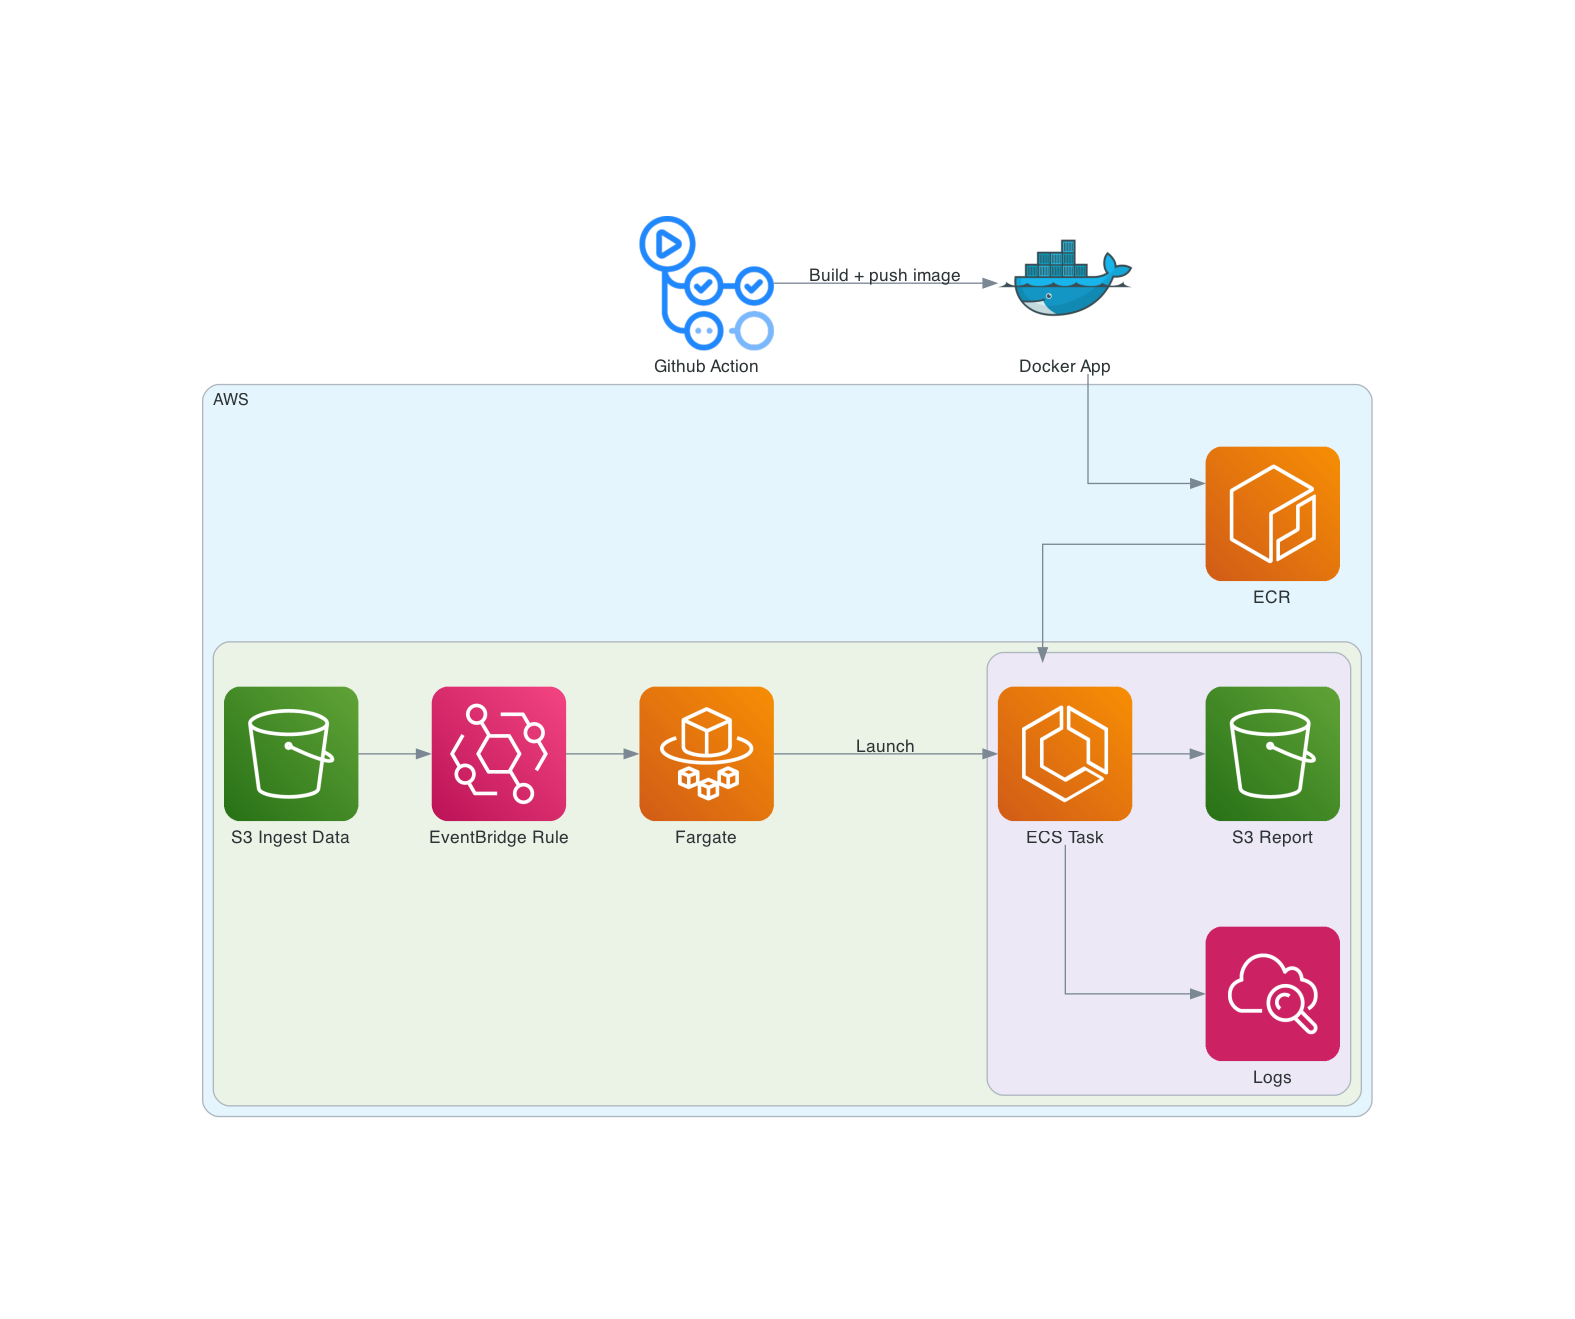
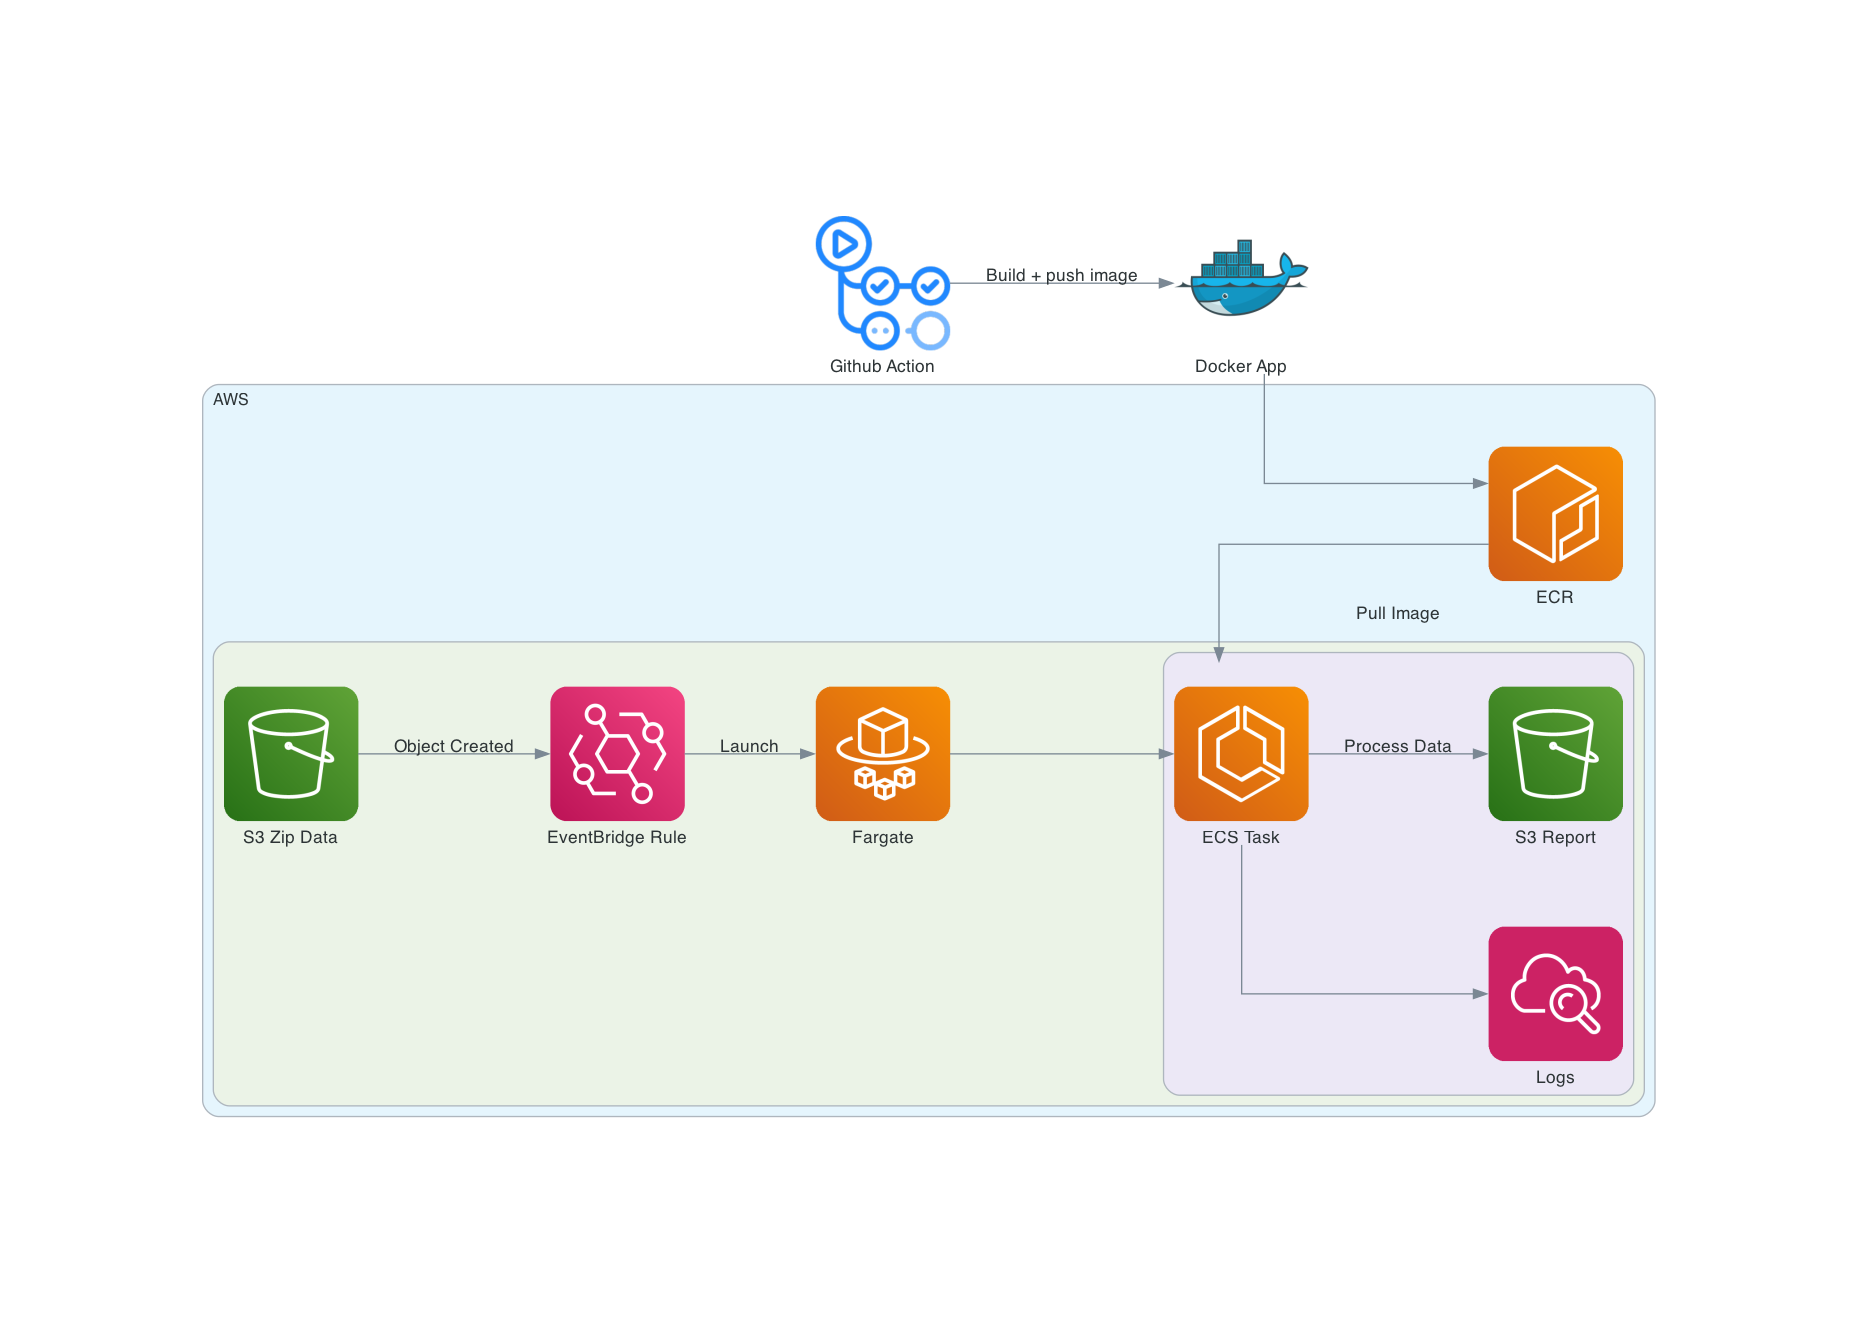
docs: Updated diagram labels

diff --git a/docs/backend_diagram.py b/docs/backend_diagram.py
@@ -15,13 +15,13 @@ with Diagram("", filename="backend_diagram", outformat="png"):
 
     with Cluster(""):
         fargate = Fargate("Fargate")
-        S3("S3 Ingest Data") >> Eventbridge("EventBridge Rule") >> fargate
+        S3("S3 Zip Data") >> Edge(label="Object Created") >> Eventbridge("EventBridge Rule") >> Edge(label="Launch") >> fargate
         
         with Cluster(""):
           ecs = ECS("ECS Task")
         
-          fargate >> Edge(label="Launch") >> ecs >> Cloudwatch("Logs")
-          ecs << ecr
-          ecs >> S3("S3 Report")
+          fargate >> ecs >> Cloudwatch("Logs")
+          ecs << Edge(label="Pull Image") << ecr
+          ecs >> Edge(label="Process Data") >> S3("S3 Report")
 
   github_action_ecr >> Edge(label="Build + push image")  >> docker_image >> ecr
